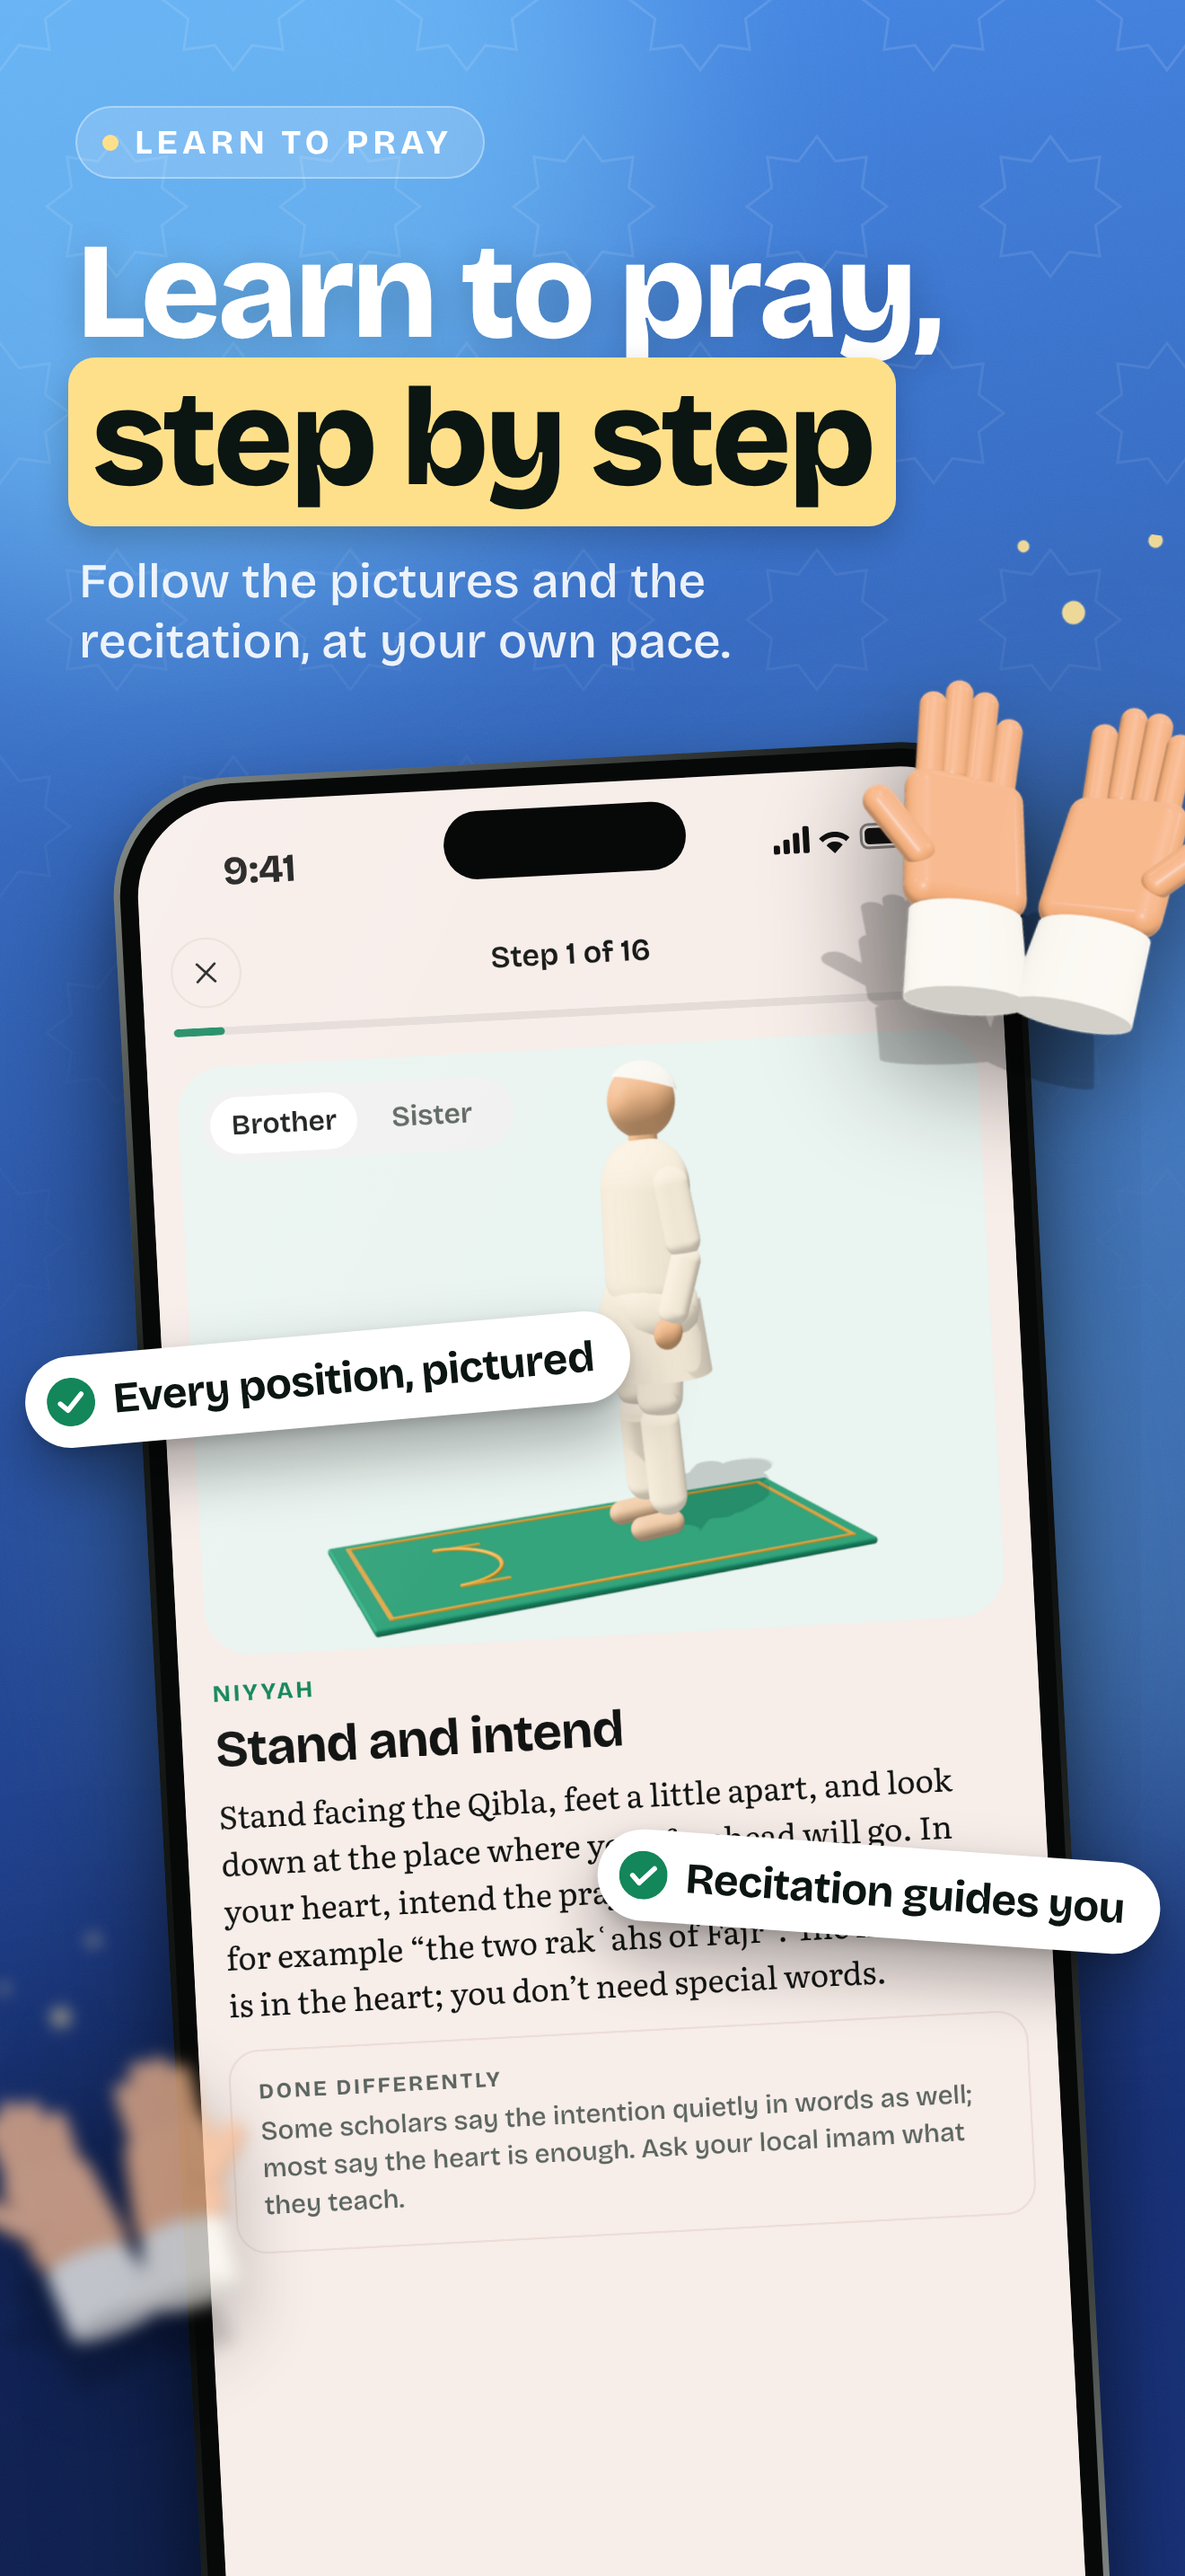
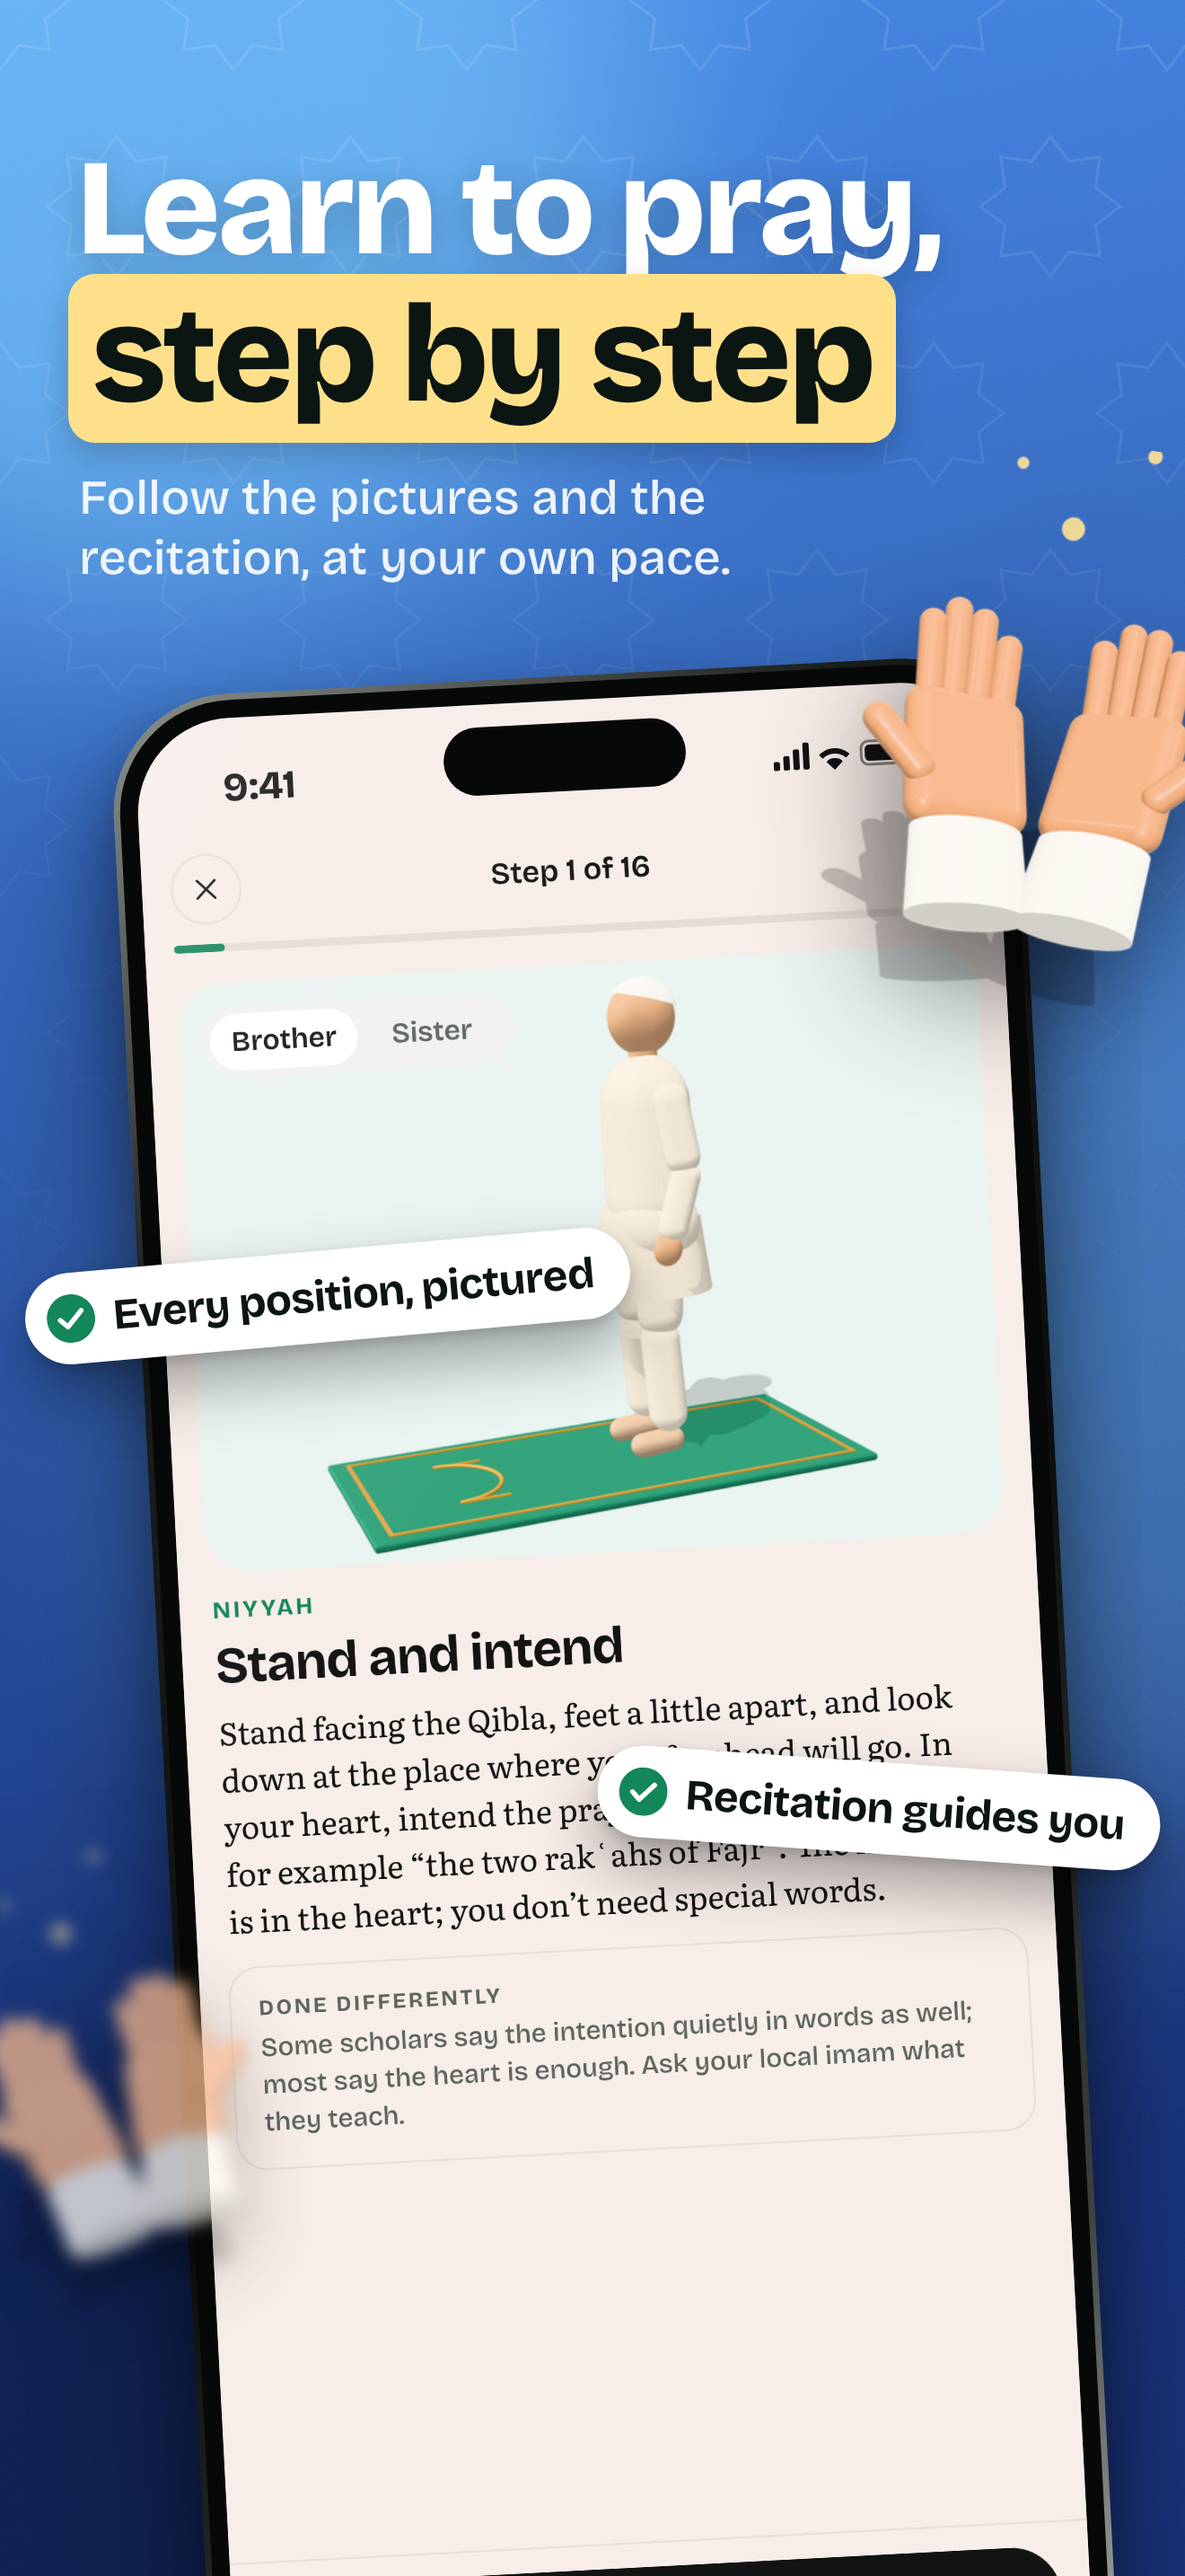
App Store screenshots: remove the label pills above the headlines
Claude-Session: https://claude.ai/code/session_01UL5qhK5UGVh9iu45W9pAtQ

diff --git a/scripts/store/make-screenshots.js b/scripts/store/make-screenshots.js
@@ -43,10 +43,10 @@ html,body{margin:0;width:1320px;height:2868px;overflow:hidden;background:${b}}
 .cone{position:absolute;left:50%;top:-200px;width:1800px;height:1700px;margin-left:-900px;background:conic-gradient(from 180deg at 50% 0%, transparent 150deg, rgba(255,255,255,.16) 172deg, rgba(255,255,255,.22) 180deg, rgba(255,255,255,.16) 188deg, transparent 210deg);filter:blur(30px)}
 svg.l{position:absolute;inset:0;opacity:.11;-webkit-mask-image:linear-gradient(180deg,#000 0%,rgba(0,0,0,.25) 38%,transparent 62%);mask-image:linear-gradient(180deg,#000 0%,rgba(0,0,0,.25) 38%,transparent 62%)}
 svg.grain{position:absolute;inset:0;opacity:.2;mix-blend-mode:soft-light}
-.head{position:relative;padding:118px 84px 0;z-index:3}
+.head{position:relative;padding:150px 84px 0;z-index:3}
 .eye{display:inline-flex;align-items:center;gap:18px;font-family:BS;font-size:38px;letter-spacing:5px;color:#fff;background:rgba(255,255,255,.16);border:2px solid rgba(255,255,255,.34);border-radius:60px;padding:16px 34px 16px 28px}
 .eye i{width:18px;height:18px;border-radius:50%;background:${hi}}
-h1{margin:44px 0 0;font-family:B;font-size:${Math.max(...h.replace(/\*/g, '').split('<br>').map((l) => l.length)) > 14 ? 132 : 152}px;line-height:1.08;letter-spacing:-4.5px;color:#fff;text-shadow:0 8px 40px rgba(0,0,0,.22)}
+h1{margin:0;font-family:B;font-size:${Math.max(...h.replace(/\*/g, '').split('<br>').map((l) => l.length)) > 14 ? 132 : 152}px;line-height:1.08;letter-spacing:-4.5px;color:#fff;text-shadow:0 8px 40px rgba(0,0,0,.22)}
 h1 em{font-style:normal;color:#0B1512;background:${hi};padding:0 26px 6px;margin:0 -8px;border-radius:30px;-webkit-box-decoration-break:clone;box-decoration-break:clone;text-shadow:none;box-shadow:0 14px 36px rgba(0,0,0,.2)}
 p{margin:44px 300px 0 4px;font-family:BM;font-size:54px;line-height:1.24;color:rgba(255,255,255,.9);text-wrap:balance}
 .stage{position:relative;width:1010px;margin:96px auto 0}
@@ -72,7 +72,7 @@ p{margin:44px 300px 0 4px;font-family:BM;font-size:54px;line-height:1.24;color:r
 <div class="bg"></div><div class="blob b1"></div><div class="blob b2"></div><div class="blob b3"></div><div class="cone"></div>
 <svg class="l" width="1320" height="2868" fill="none" stroke="#fff" stroke-width="3">${lattice}</svg>
 <svg class="grain" width="1320" height="2868"><filter id="n"><feTurbulence type="fractalNoise" baseFrequency=".9" numOctaves="2" seed="4"/><feColorMatrix values="0 0 0 0 1  0 0 0 0 1  0 0 0 0 1  0 0 0 .9 0"/></filter><rect width="100%" height="100%" filter="url(#n)"/></svg>
-<div class="head"><span class="eye"><i></i>${eye}</span><h1>${h.replace(/\*(.+?)\*/g, '<em>$1</em>')}</h1><p>${sub}</p></div>
+<div class="head"><h1>${h.replace(/\*(.+?)\*/g, '<em>$1</em>')}</h1><p>${sub}</p></div>
 ${Array.isArray(shot) ? multi(shot) : `<div class="stage"><div class="halo"></div><img class="art2" src="file://${ART}/${art}.png">${phone(shot)}
 <img class="art ${ap}" src="file://${ART}/${art}.png">${chips[0] ? chip(chips[0], 'l') + chip(chips[1], 'r') : ''}</div>`}
 </body></html>`;

diff --git a/CLAUDE.md b/CLAUDE.md
@@ -180,7 +180,7 @@ Website: `website/` (index, privacy, terms, support; always light (Saj, 1 Nov 20
 
 **Web app (Saj, 14 Nov 2026, "turn the website into a web app version of the iOS app"):** the same Expo code exported for the browser (`npx expo export --platform web`, single-page) is a second Vercel project, **`munib-web-app`** (id prj_8T31E7dBXkMUgBv3gn0SLjKb2Ei4, same team, linked to this repo at the root; `vercel.json` at the repo root sets the build, `dist` output and the catch-all rewrite to index.html; redeploys on every push to main). The marketing site stays separate (`website/`, project `ayat-app-website`). On a computer (`src/components/WebFrame.tsx`, Saj 15 Nov 2026: "doesn't just look like a brick") the app sits in a gold-edged phone frame over the mosque scene, which follows the visitor's clock (fajr / day / maghrib / isha renders, stars at night); on wide screens (≥1100px) a Munib intro panel on the left (name, tagline, four features) or, when the visitor arrived on a shared ayah address (app.munib.co/2/255, /93/1-5), that ayah large (Arabic with gold ayah numbers, Saheeh, loaded with `loadChapter`); below it a QR code (`qrcode` package drawn with react-native-svg) to open the web app, or that ayah, on a phone (switch to the App Store link at launch); narrow windows and phones get the app full screen. Not on web: Sign in with Apple (needs an Apple Services ID + Supabase web redirect; email sign-in works), notifications and prayer/mosque alerts, offline downloads (Offline button hidden), Qibla turning compass (shows the bearing from north instead), haptics, live updates. Linked from the website ("Try it now", 15 Nov 2026). Also at **app.munib.co** (15 Nov 2026).
 
-**App Store screenshots (Saj, 16 Nov 2026: "something that pops like this… people don't need to think about it, just follow"; second round the same day: lead with replacing doomscrolling, "a daily checklist", "all features completely free", and cards for the other features):** 10 at 1320×2868 (6.9-inch iPhone; Apple allows up to 10 plus 3 preview videos, and the first three show in search) in `marketing/app-store/munib-NN-*.png`: **second design the same day (Saj: "make it pop and be more aesthetic"):** a two-tone gradient with soft colour blobs, a cone of light, the star lattice fading out and fine grain; a small eyebrow pill (FOR YOU, DAILY DEEDS…); a big Bricolage headline with the key words in a marker highlight (dark type on gold or white); a larger tilted phone that runs off the bottom (titanium rim, reflection), one of Munib's 3D objects at its corner with a blurred copy for depth, and two white tick chips per slide (per-slide heights so they never cover the Arabic). 01 "Replace doomscrolling with returning to Allah" (a personalised For you page with 100% Islamic content), 02 "Your daily deeds, in one checklist", 03 Learn to pray, 04 Learn surahs, 05 Ask, **06 "Read the Quran together" (waiting for a screenshot from Saj's phone: it needs a signed-in account)**, 07 "Prayer times, wherever you are" (or follow your own mosque), 08 Bedtime stories, 09 Ramadan, 10 "All features, completely free" (three phones: tasbeeh, Qibla, repeat, plus chips for mosque alerts, family circles, live from Makkah, find a dua, listen offline, a gathering of dua). Made by `scripts/store/capture-screens.js` (Playwright on the web export, 440×956 at 3×, sample prefs) then `scripts/store/make-screenshots.js` (paths inside point at the scratchpad: adjust before re-running; a slide whose screen file is missing is skipped). Still to build: app icon and launch screen; a demo account for Apple's reviewer; App Store listing and screenshots; EAS build → TestFlight → App Store. Recommended: crash reporting (Sentry), a one-off human security review before launch.
+**App Store screenshots (Saj, 16 Nov 2026: "something that pops like this… people don't need to think about it, just follow"; second round the same day: lead with replacing doomscrolling, "a daily checklist", "all features completely free", and cards for the other features):** 10 at 1320×2868 (6.9-inch iPhone; Apple allows up to 10 plus 3 preview videos, and the first three show in search) in `marketing/app-store/munib-NN-*.png`: **second design the same day (Saj: "make it pop and be more aesthetic"):** a two-tone gradient with soft colour blobs, a cone of light, the star lattice fading out and fine grain; no label pill above the headline (Saj didn't like it); a big Bricolage headline with the key words in a marker highlight (dark type on gold or white); a larger tilted phone that runs off the bottom (titanium rim, reflection), one of Munib's 3D objects at its corner with a blurred copy for depth, and two white tick chips per slide (per-slide heights so they never cover the Arabic). 01 "Replace doomscrolling with returning to Allah" (a personalised For you page with 100% Islamic content), 02 "Your daily deeds, in one checklist", 03 Learn to pray, 04 Learn surahs, 05 Ask, **06 "Read the Quran together" (waiting for a screenshot from Saj's phone: it needs a signed-in account)**, 07 "Prayer times, wherever you are" (or follow your own mosque), 08 Bedtime stories, 09 Ramadan, 10 "All features, completely free" (three phones: tasbeeh, Qibla, repeat, plus chips for mosque alerts, family circles, live from Makkah, find a dua, listen offline, a gathering of dua). Made by `scripts/store/capture-screens.js` (Playwright on the web export, 440×956 at 3×, sample prefs) then `scripts/store/make-screenshots.js` (paths inside point at the scratchpad: adjust before re-running; a slide whose screen file is missing is skipped). Still to build: app icon and launch screen; a demo account for Apple's reviewer; App Store listing and screenshots; EAS build → TestFlight → App Store. Recommended: crash reporting (Sentry), a one-off human security review before launch.
 
 ## TestFlight setup (9 Nov 2026)
 
